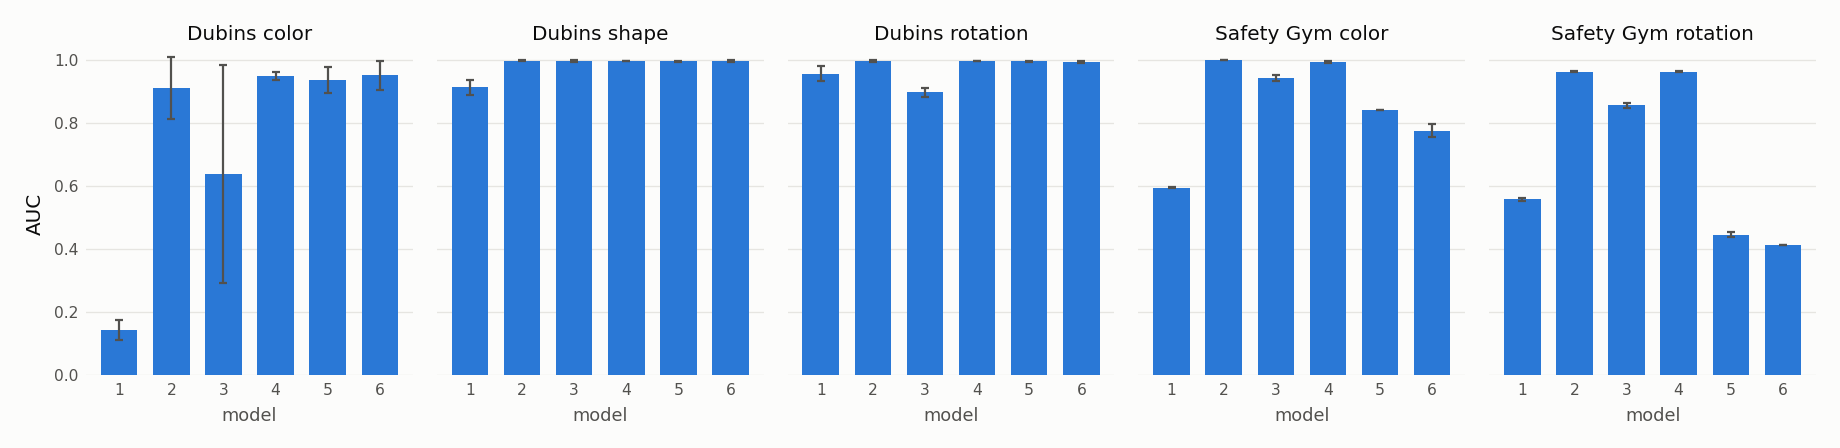
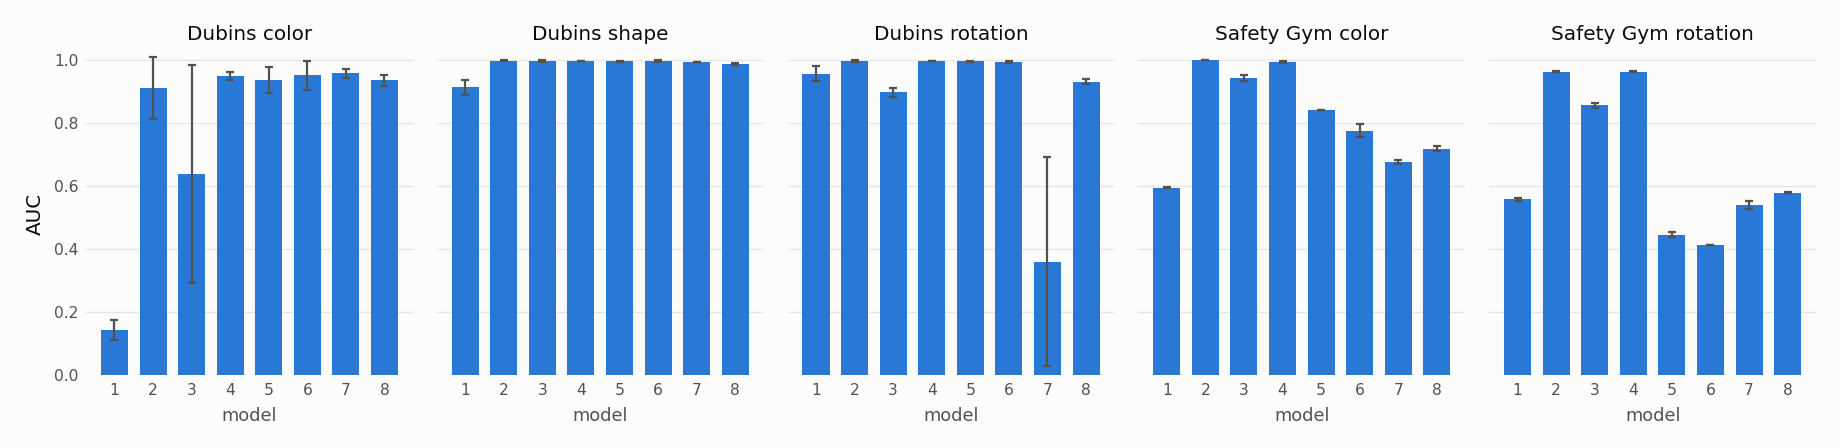
Report: orthogonal penalty (cos, cos+proj) rows, bullet and figures in λ section (#oct-18)

diff --git a/figs/plot_lambda_tables.py b/figs/plot_lambda_tables.py
@@ -5,6 +5,8 @@ import matplotlib; matplotlib.use("Agg"); import matplotlib.pyplot as plt
 SURF, INK, INK2, BLUE = "#fcfcfb", "#0b0b0b", "#52514e", "#2a78d6"
 def short(label):   # match by keyword so slightly different row labels map to the same name
     l = re.sub(r"\s*#oct-18\s*", "", label)
+    if "orthogonal + projection" in l: return "batch λ detached, orthogonal + projection"
+    if "orthogonal" in l: return "batch λ detached, orthogonal"
     if "detached" in l: return "batch λ\ndetached"
     if "global λ, projected" in l: return "global λ\nproj. scale"
     if "global λ" in l: return "global λ"

diff --git a/safety_adv_reg_report.md b/safety_adv_reg_report.md
@@ -324,6 +324,8 @@ Zero-shot AUC; Dubins from the uniform eval, mean ± std over 3 eval seeds:
 | L∞ safety reg, λ-projected, batch λ, detached direction | 0.948 ± 0.013 | 0.996 ± 0.001 | 0.996 ± 0.001 | 0.992 ± 0.004 | 0.962 ± 0.001 |
 | L∞ safety reg, λ-projected, global λ | 0.936 ± 0.041 | 0.995 ± 0.002 | 0.995 ± 0.002 | 0.841 ± 0.001 | 0.445 ± 0.008 |
 | L∞ safety reg, λ-projected, global λ, projected scale | 0.950 ± 0.046 | 0.996 ± 0.002 | 0.992 ± 0.003 | 0.775 ± 0.021 | 0.413 ± 0.001 |
+| L∞ safety reg, λ-projected, batch λ, detached direction, orthogonal penalty #oct-18 | 0.957 ± 0.014 | 0.993 ± 0.001 | 0.360 ± 0.332 | 0.677 ± 0.006 | 0.540 ± 0.012 |
+| L∞ safety reg, λ-projected, batch λ, detached direction, orthogonal + projection penalty #oct-18 | 0.934 ± 0.016 | 0.986 ± 0.002 | 0.930 ± 0.008 | 0.718 ± 0.008 | 0.579 ± 0.003 |
 
 Zero-shot sign accuracy (h ≥ 0 = safe), mean ± std over 3 eval seeds. Dubins from the 50/50 eval, where 0.500 means the threshold is gone; Safety Gym, where calling every state safe scores 0.833:
 
@@ -337,6 +339,8 @@ Zero-shot sign accuracy (h ≥ 0 = safe), mean ± std over 3 eval seeds. Dubins 
 | L∞ safety reg, λ-projected, batch λ, detached | 0.977 ± 0.007 | 0.500 ± 0.000 | 0.968 ± 0.005 | 0.951 ± 0.017 | 0.997 ± 0.002 | 0.992 ± 0.001 | 0.983 ± 0.001 |
 | L∞ safety reg, λ-projected, global λ | 0.977 ± 0.002 | 0.500 ± 0.000 | 0.963 ± 0.002 | 0.941 ± 0.015 | 0.892 ± 0.006 | 0.844 ± 0.007 | 0.802 ± 0.008 |
 | L∞ safety reg, λ-projected, global λ, projected | 0.974 ± 0.003 | 0.690 ± 0.172 | 0.960 ± 0.007 | 0.920 ± 0.018 | 0.950 ± 0.003 | 0.843 ± 0.004 | 0.829 ± 0.003 |
+| L∞ safety reg, λ-projected, batch λ, detached direction, orthogonal penalty #oct-18 | 0.972 ± 0.002 | 0.501 ± 0.001 | 0.958 ± 0.011 | 0.511 ± 0.011 | 0.920 ± 0.014 | 0.840 ± 0.000 | 0.828 ± 0.002 |
+| L∞ safety reg, λ-projected, batch λ, detached direction, orthogonal + projection penalty #oct-18 | 0.965 ± 0.002 | 0.500 ± 0.000 | 0.950 ± 0.008 | 0.835 ± 0.047 | 0.973 ± 0.004 | 0.857 ± 0.001 | 0.834 ± 0.001 |
 
 - **Dubins:** every λ variant loses the color threshold except global λ with projected scale, which partly keeps it (0.690). Its spread across eval seeds is large and it has one training seed. Batch λ also loses the rotation threshold (0.627).
 - **Safety Gym:** all λ variants collapse toward calling everything safe (0.80–0.86, near the 0.833 all-safe rate). Only the L∞ safety reg w/ h keeps its thresholds (0.987 / 0.977).
@@ -344,6 +348,10 @@ Zero-shot sign accuracy (h ≥ 0 = safe), mean ± std over 3 eval seeds. Dubins 
 The full uniform, 50/50 and Safety Gym tables (sign accuracy, AUC, predicted-safe fraction) include both λ rows. On the 50/50 eval, Dubins color AUC is 0.819 ± 0.025 for batch λ and 0.892 ± 0.069 for global λ.
 
 - **Batch λ with a detached direction fixes batch λ** (`lambda_mode: batch_detached`, one training seed). The direction comes from the current batch's class means but carries no gradient; the scale ‖λ_batch‖ keeps its gradient. On Dubins, color AUC is 0.948 ± 0.013 (eval seeds 0.94 / 0.94 / 0.96), against 0.639 ± 0.345 for batch λ, and rotation is back to 0.996 (batch λ: 0.896). On Safety Gym it reaches color 0.992 and rotation 0.962, and it is the first λ variant whose thresholds survive (sign accuracy 0.992 / 0.983; batch λ 0.856 / 0.836). Prediction loss is low (0.0106 / 0.0221). The gradient through the direction is what broke batch λ, presumably because it let the encoder rotate the protected axis. A noisy per-batch direction is fine once it is detached. The Dubins color threshold still collapses (50/50 sign accuracy 0.500). Over 3 training seeds it holds on Safety Gym (color 0.993 ± 0.007, rotation 0.945 ± 0.023, thresholds kept on every seed) but not on Dubins color (0.721 ± 0.434, one seed at 0.220); see [Training-seed variability](#training-seed-variability).
+- #oct-18 **Forcing the shift orthogonal hurts** (detached batch direction, one training seed; `lambda_pen: cos` and `cos+proj`, commit `8ff4cff`). The orthogonal penalty is cos²(Δz, λ_n) = (Δz · λ_n)² / ‖Δz‖², with ‖Δz‖ detached so the encoder can't lower it by inflating sideways movement, and floored at 0.1 × the class gap. PGD still maximizes the projection penalty. Compared with the projection penalty alone (Dubins 0.948 / 0.996 / 0.996, Safety Gym 0.992 / 0.962):
+  - **orthogonal only** breaks Dubins rotation (0.360 ± 0.332) and Safety Gym (color 0.677, rotation 0.540). With no reward for separating the classes, the Safety Gym latent never separates them: the side-trained head only reaches AUC 0.62.
+  - **orthogonal + projection** keeps Dubins (0.934 / 0.986 / 0.930) but still loses Safety Gym (0.718 / 0.579; thresholds collapse to near all-safe).
+  - Prediction loss is 0.042–0.070, against 0.010–0.022 for the projection penalty alone. The projection penalty's three routes (rotate, shrink, separate) work better than demanding rotation alone.
 - **Dubins, global λ works.** Color AUC is 0.936 (seeds 0.98 / 0.92 / 0.90), above the L∞ safety reg w/ h (0.910). Shape and rotation stay intact. It also has the lowest prediction cost of any safety-reg model (pred_loss 0.0081), and its running direction agrees with the batch direction (cos ≈ 0.89–0.94).
 - **Dubins, batch λ is unstable and hurts rotation.** Color AUC by eval seed is 0.83 / 0.84 / 0.24, and rotation drops to 0.896, below sigreg only (0.956). Having gradient through a noisy per-batch direction lets the encoder move the axis it is being protected along.
 - **Safety Gym: neither λ variant matches the head.**
